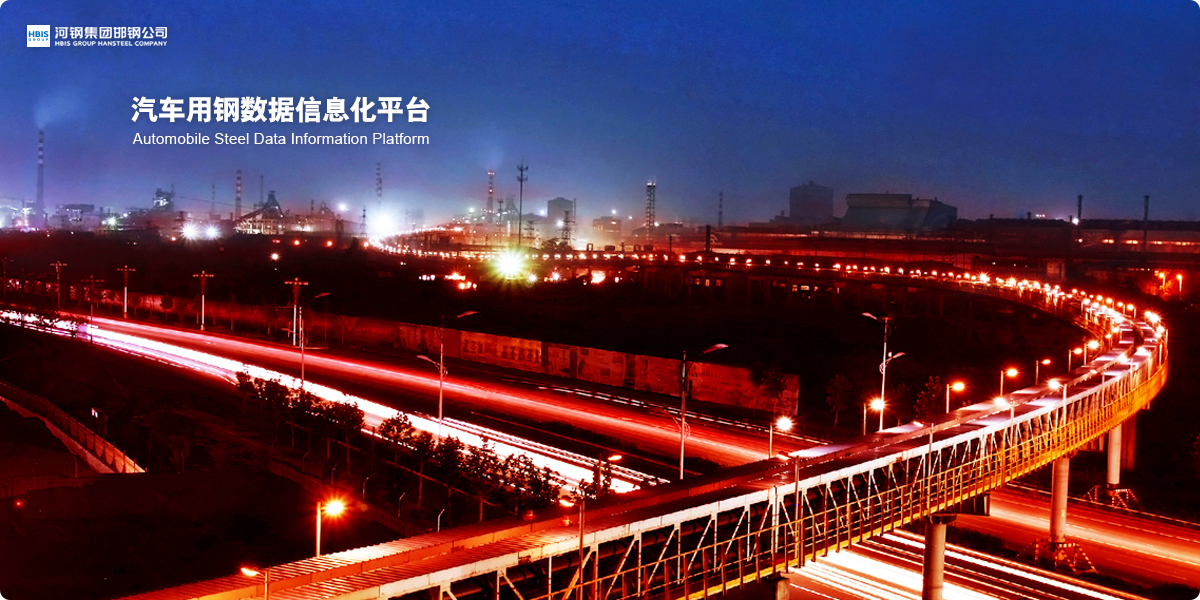
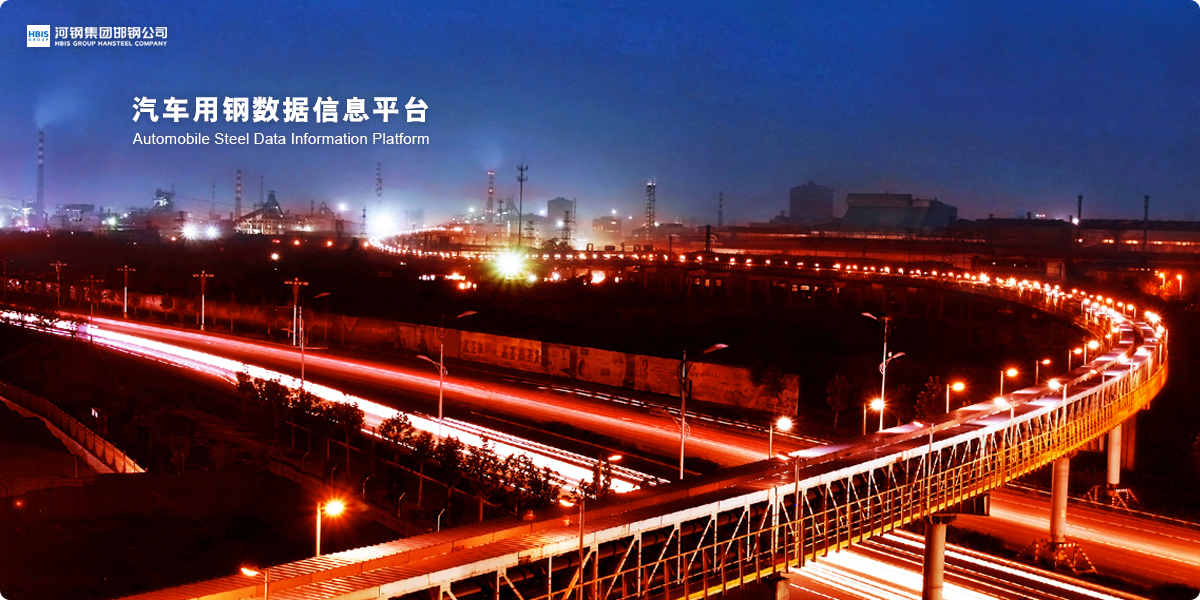
ui

diff --git a/src/app/form-trial-details/static-tension-home/static-tension-table/static-tension-table.component.ts b/src/app/form-trial-details/static-tension-home/static-tension-table/static-tension-table.component.ts
@@ -65,6 +65,8 @@ export class StaticTensionTableComponent implements OnInit {
     .then((res: any) => {    
     this.trialDataDetail = res;
     }) 
+    this.trialDataDetail1=this.trialDataDetail.slice(0,this.trialDataDetail.length-9)
+    this.trialDataDetail2=this.trialDataDetail.slice(this.trialDataDetail.length-9)
     this.loading = false;
     this.ApiService.GetMater({ id: this.materialId }).then((res: any) => {
       if (this.trialDataDetail.length) {
@@ -72,8 +74,7 @@ export class StaticTensionTableComponent implements OnInit {
           this.trialDataDetail[0].dates = this.ApiService.handleTime(this.trialDataDetail[0].dates)
           this.trialDataDetail[0].dateEnds = this.ApiService.handleTime(this.trialDataDetail[0].dateEnds)
       }
-      this.trialDataDetail1=this.trialDataDetail.slice(0,this.trialDataDetail.length-9)
-      this.trialDataDetail2=this.trialDataDetail.slice(this.trialDataDetail.length-9)
+      
     })
     
   }

diff --git a/src/app/report/report.component.ts b/src/app/report/report.component.ts
@@ -63,15 +63,15 @@ else if(name1=='surface-property'){this.GetTrialDataDetailss('getSurfaceProperty
   public async GetTrialDataDetailss(p) {
     await this.ApiService[p](this.materialId).then((res: any) => {
       this.trialDataDetail = res
-      let one=''//报告名，现在只能显示一个报告，即一个字符串
+      let one = ''//报告名，现在只能显示一个报告，即一个字符串
       let length = this.trialDataDetail.length
       for(let a=0;a<length;a++)
       {
         //报告在detail表的fileKey，图片在detail表的fileString
         if(this.trialDataDetail[a] && this.trialDataDetail[a].fileKey!=null){
           one = this.trialDataDetail[a].fileKey
-          break
         }
+        break
       }
       let that = this;
     common(one,function(value){

diff --git a/src/app/trailname/trailname.component.ts b/src/app/trailname/trailname.component.ts
@@ -1,7 +1,7 @@
 import { Component, OnInit } from '@angular/core';
 import {ActivatedRoute} from '@angular/router';
 import { ApiService } from 'src/app/api.service';
-import { menu } from '../picture'
+import { menu ,button} from '../picture'
 @Component({
   selector: 'app-trailname',
   templateUrl: './trailname.component.html',
@@ -12,7 +12,8 @@ export class TrailnameComponent implements OnInit {
   p1='' //数据表
   p2='' //数据图
   p3='' //报告
-  p4='' //典型零部件
+  p4 = '' //典型零部件
+  button = button
   currentInfo = menu.filter((item)=>{return item.name == this.route.snapshot.routeConfig.path})
   constructor(
     private route: ActivatedRoute,

diff --git a/src/app/typical-part/typical-part.component.html b/src/app/typical-part/typical-part.component.html
@@ -1,6 +1,6 @@
 <div class="content">
     <!-- <button nz-button nzType="primary" (click)="goVim()">查看模型</button> -->
-    <button nz-button nzType="primary" (click)="openDialog()">绑定零件</button>
+    <button nz-button nzType="primary" (click)="openDialog()" *ngIf="button('HGBoundParts')">绑定零件</button>
     <nz-modal [(nzVisible)]="isVisible" nzTitle="绑定零件" (nzOnCancel)="handleCancel()" (nzOnOk)="handleOk()">
         <nz-cascader [nzOptions]="nzOptions" [(ngModel)]="values" [nzShowSearch]="true" [nzOptionRender]="renderTpl"></nz-cascader>
         <ng-template #renderTpl let-option let-index="index">

diff --git a/src/app/form-material-list/form-material-list.component.ts b/src/app/form-material-list/form-material-list.component.ts
@@ -182,10 +182,10 @@ export class FormMaterialListComponent implements OnChanges, OnInit {
     let materialIds = []//id数组
     let permissions = JSON.parse(sessionStorage.getItem("permissions"))
     let oper_name = undefined 
-    let oper_ip = undefined
+    let oper_ip = "127.0.0.1"
     if (permissions && permissions.user) {
       oper_name = permissions.user.userName //用户名
-      oper_ip = permissions.user.phonenumber
+      // oper_ip = permissions.user.phonenumber
     }   
     this.checkList.map(val => materialIds.push(val.materialDto.id))
     let obj = {

diff --git a/src/app/typical-part/typical-part.component.ts b/src/app/typical-part/typical-part.component.ts
@@ -2,6 +2,8 @@ import { Component, OnInit } from '@angular/core';
 import { Router } from '@angular/router';
 import { ApiService } from 'src/app/api.service';
 import { NzMessageService } from 'ng-zorro-antd/message';
+import { button} from '../picture'
+
 @Component({
   selector: 'app-typical-part',
   templateUrl: './typical-part.component.html',
@@ -11,6 +13,7 @@ export class TypicalPartComponent implements OnInit {
   nzOptions = []
   values = [];
   isVisible = false;
+  button = button
   constructor(
     private router: Router,
     private ApiService: ApiService,

diff --git a/src/app/picture.ts b/src/app/picture.ts
@@ -104,6 +104,9 @@ function PlotPicture(data, xData, des) {
     xAxis: {
       type: "category",
       data: xData,
+      axisLabel: {
+        interval: 0,
+        rotate:-30}
     },
     yAxis: {
       type: "value"
@@ -126,8 +129,10 @@ function PlotPicture(data, xData, des) {
       }
     },
     grid: {
-      containLabel: false,
-      bottom:"70px"
+      containLabel: true,
+      right: '90px',
+      left:'10px'
+      // bottom:1
     }, 
         
   };

diff --git a/src/app/form-navigation/form-navigation.component.html b/src/app/form-navigation/form-navigation.component.html
@@ -3,7 +3,7 @@
         <div class="navigation-logo">
             <a routerLink='/platform'>
                 <!-- <img src="../../assets/images/navigation-logo.png" alt=""> -->
-                <span>汽车用钢数据信息化平台</span><br/>
+                <span>汽车用钢数据信息平台</span><br/>
                 <span>Automobile Steel Data Information Platform</span>
             </a>
         </div>

diff --git a/src/app/api.service.ts b/src/app/api.service.ts
@@ -16,8 +16,8 @@ export class ApiService {
     ) { }
     // toVIm = `https://vim.hansteel.cn/view`   //跳转到vim线上，记得加/view
     toVIm = `http://localhost:4280` //跳转到vim     
-    // toRuoYi = `http://10.80.27.201:81`
-    toRuoYi = `https://auth.hansteel.cn`
+    toRuoYi = `http://localhost:81`
+    // toRuoYi = `https://auth.hansteel.cn`
   
   //筛选材料
   async GetMater(params?){

diff --git a/src/app/trailname/trailname.component.html b/src/app/trailname/trailname.component.html
@@ -1,6 +1,6 @@
 <app-children-nav [p1]=p1 [p2]=p2 [p3]=p3 [p4]=p4>
 </app-children-nav>
 <app-base-info [materialId]="materialId"></app-base-info>
-<button nz-button nzType="primary" (click)="deleteTrial()">删除{{currentInfo[0].names}}</button>
+<button nz-button nzType="primary" (click)="deleteTrial()" *ngIf='button("HGdelTestItem")'>删除{{currentInfo[0].names}}</button>
 
 <router-outlet></router-outlet>

diff --git a/src/app/page-contrast/page-contrast.component.html b/src/app/page-contrast/page-contrast.component.html
@@ -138,5 +138,5 @@
     </div>
 </div>
 <nz-modal [(nzVisible)]="isVisible"  nzTitle="对比"  (nzOnOk)="handleOk()" (nzOnCancel)="handleCancel()">
-    <div echarts       [options]="options"       style="height:460px"></div>
+    <div echarts       [options]="options"       style="height:460px;width:490px"></div>
     </nz-modal>

diff --git a/src/app/page-contrast/page-contrast.component.ts b/src/app/page-contrast/page-contrast.component.ts
@@ -328,8 +328,6 @@ async getGetMaterials() {
         xData.push(`
         ${this.name[i]}
         ${this.model[i]}
-        ${this.manu[i]}
-        ${this.reelNumber[i]}
         `)
       })
       this.isVisible = true;
